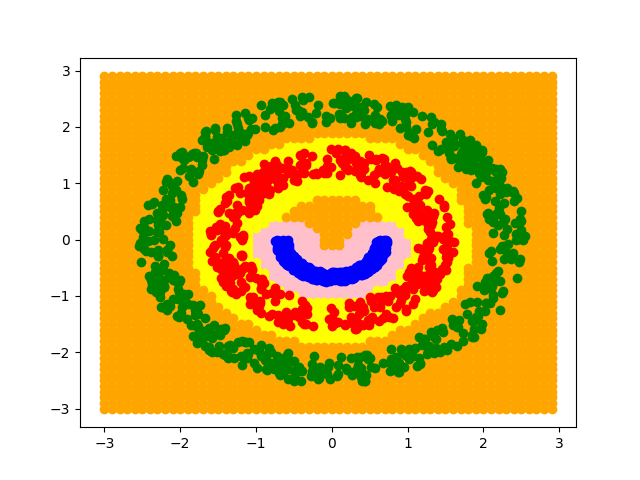
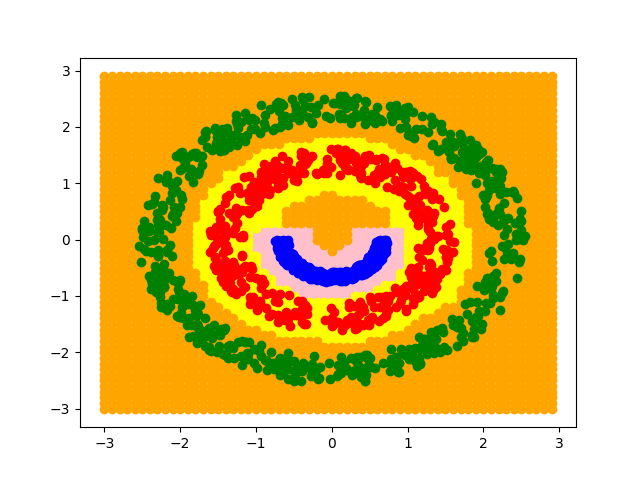
Minor changes in Parzen

diff --git a/Assignment5/parzen.py b/Assignment5/parzen.py
@@ -8,23 +8,23 @@ import warnings
 warnings.simplefilter("ignore")
 
 def check(x, y, h):
-    dist = (x[0]-y[0])**2 + (x[1]-y[1])**2
-    if dist <= h*h:
-        return True
-    return False
-    # if x[0] >= y[0] - h and x[0] <= y[0] + h and x[1] >= y[1] - h and x[1] <= y[1] + h:
+    # dist = (x[0]-y[0])**2 + (x[1]-y[1])**2
+    # if dist <= h*h:
     #     return True
     # return False
+    if x[0] >= y[0] - h and x[0] <= y[0] + h and x[1] >= y[1] - h and x[1] <= y[1] + h:
+        return True
+    return False
 
 
 def hypercube(data, datapoints, total):
     cnt = 0.0
-    h = 0.4
+    h = 0.3
     for point in datapoints:
         if check(data, point, h):
             cnt += 1
-    # return (cnt) / ( total * 4*h*h) 
-    return cnt / ( total * math.pi * h * h)
+    return (cnt) / ( total * 4*h*h) 
+    # return cnt / ( total * math.pi * h * h)
 
 
 def decision_boundary(plt, x1, x2, x3, total):
@@ -85,28 +85,45 @@ def parzen(x1, x2, x3, plt):
     plt.scatter(temp1[0], temp1[1], color="blue", zorder=-1)
     plt.scatter(temp2[0], temp2[1], color="red", zorder=-1)
     plt.scatter(temp3[0], temp3[1], color="green", zorder=-1)
-    
-def find(x, x1, x2, x3, total, actual):
-    r = 0
-    w = 0
-    for point in x:
-        ans = -1
+
+
+def build_conf(conf, a, b, c, x1, x2, x3):
+    total = len(x1+x2+x3)
+    for point in a:
         p1 = hypercube(point, x1, total)
         p2 = hypercube(point, x2, total)
         p3 = hypercube(point, x3, total)
 
         if p1 > p2 and p1 > p3:
-            ans = 1
+            conf[0][0] += 1
         elif p2 > p1 and p2 > p3:
-            ans = 2
+            conf[0][1] += 1
         else:
-            ans = 3
-        
-        if ans == actual:
-            r += 1
+            conf[0][2] += 1
+
+    for point in b:
+        p1 = hypercube(point, x1, total)
+        p2 = hypercube(point, x2, total)
+        p3 = hypercube(point, x3, total)
+
+        if p1 > p2 and p1 > p3:
+            conf[1][0] += 1
+        elif p2 > p1 and p2 > p3:
+            conf[1][1] += 1
         else:
-            w += 1
-    return r, w
+            conf[1][2] += 1
+    
+    for point in c:
+        p1 = hypercube(point, x1, total)
+        p2 = hypercube(point, x2, total)
+        p3 = hypercube(point, x3, total)
+
+        if p1 > p2 and p1 > p3:
+            conf[2][0] += 1
+        elif p2 > p1 and p2 > p3:
+            conf[2][1] += 1
+        else:
+            conf[2][2] += 1
 
 
 
@@ -119,16 +136,29 @@ if __name__ == '__main__':
     x1_train, x1_test = U.split(x1, 0.1)
     x2_train, x2_test = U.split(x2, 0.1)
     x3_train, x3_test = U.split(x3, 0.1)
-    # print(len(x1_train), len(x1_test))
+
     plt.figure()
     parzen(x1_train, x2_train, x3_train, plt)
     plt.savefig('parzen.png')
 
-    r1, w1 = find(x1_test, x1_train, x2_train, x3_train, len(x1_train+x2_train+x3_train), 1)
-    r2, w2 = find(x2_test, x1_train, x2_train, x3_train, len(x1_train+x2_train+x3_train), 2)
-    r3, w3 = find(x3_test, x1_train, x2_train, x3_train, len(x1_train+x2_train+x3_train), 3)
+    conf_mat = [[0,0,0],[0,0,0],[0,0,0]]
 
-    print((r1+r2+r3)*100 / (r1+r2+r3+w1+w2+w3))
+    build_conf(conf_mat, x1_test, x2_test, x3_test, x1_train, x2_train, x3_train)
+
+    print(conf_mat)
+    print("Accuracy: ", U.accuracy(conf_mat))
+    print("Precision for class 1: ", U.precision(conf_mat, 0))
+    print("Precision for class 2: ", U.precision(conf_mat, 1))
+    print("Precision for class 3: ", U.precision(conf_mat, 2))
+    print("Recall for class 1: ", U.precision(conf_mat, 0))
+    print("Recall for class 2: ", U.precision(conf_mat, 1))
+    print("Recall for class 3: ", U.precision(conf_mat, 2))
+    print("F-Score for class 1: ", U.precision(conf_mat, 0))
+    print("F-Score for class 2: ", U.precision(conf_mat, 1))
+    print("F-Score for class 3: ", U.precision(conf_mat, 2))
+
+
+
 
 
 

diff --git a/Assignment5/utils.py b/Assignment5/utils.py
@@ -4,3 +4,41 @@ def split(X, ratio = 0.1):
     random.shuffle(X)
     len_ = int((float)(1.0-ratio)*len(X))
     return X[:len_], X[len_:]
+
+def accuracy(conf_matrix):
+    cnt = 0
+    neg = 0
+    for i in range(3):
+        for j in range(3):
+            cnt += conf_matrix[i][j]
+            if i != j:
+                neg += conf_matrix[i][j]
+
+    return ((cnt-neg)/float(cnt))*100
+
+def precision(conf_matrix, i):
+    cnt = 0
+    pos = 0
+
+    for j in range(3):
+        cnt += conf_matrix[i][j]
+        if i == j:
+            pos = conf_matrix[i][j]
+
+    return pos/cnt
+
+def recall(conf_matrix, j):
+    cnt = 0
+    pos = 0
+
+    for i in range(3):
+        cnt += conf_matrix[i][j]
+        if i == j:
+            pos = conf_matrix[i][j]
+
+    return pos/cnt
+
+def f_score(conf_matrix, i):
+    P = precision(conf_matrix, i)
+    R = recall(conf_matrix, i)
+    return (2*P*R)/(P+R)
